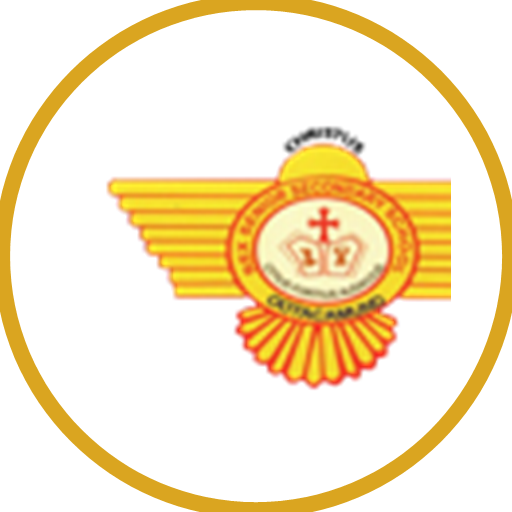
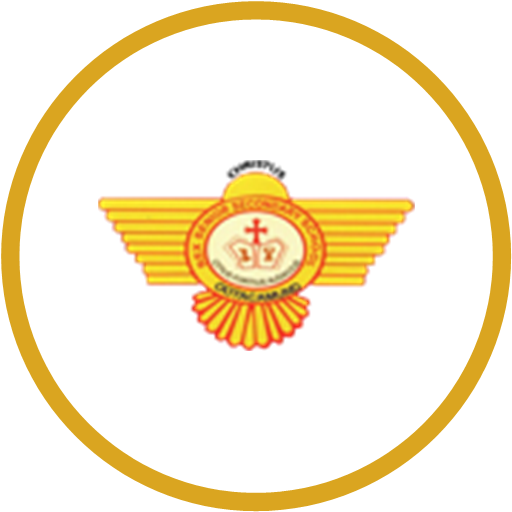
fix: resolve emblem right-side crop, fix CalendarScreen constructor, and enforce strict role routing

Changed region(s): [[0.1875, 0.2188, 0.9062, 0.7812], [0.0, 0.0, 1.0, 1.0]]

diff --git a/lib/screens/main_navigation_screen.dart b/lib/screens/main_navigation_screen.dart
@@ -52,14 +52,19 @@ class _MainNavigationScreenState extends State<MainNavigationScreen> {
   String? _lastRole;
 
   String _resolveRole(ERPProvider erp) {
+    // 1. ApiService is the primary authority based on user authentication
     final apiRole = ApiService.activeRole.toUpperCase();
-    if (apiRole == 'SUPER_ADMIN' || erp.currentRole.toLowerCase() == 'admin') {
-      return 'SUPER_ADMIN';
-    } else if (apiRole == 'TEACHER' || erp.currentRole.toLowerCase() == 'teacher') {
-      return 'TEACHER';
-    } else {
-      return 'PARENT';
-    }
+    if (apiRole == 'SUPER_ADMIN') return 'SUPER_ADMIN';
+    if (apiRole == 'TEACHER') return 'TEACHER';
+    if (apiRole == 'PARENT') return 'PARENT';
+
+    // 2. Fallback to ERPProvider state
+    final erpRole = erp.currentRole.toLowerCase();
+    if (erpRole == 'teacher') return 'TEACHER';
+    if (erpRole == 'parent') return 'PARENT';
+    if (erpRole == 'admin' || erpRole == 'super_admin') return 'SUPER_ADMIN';
+
+    return 'PARENT';
   }
 
   List<Widget> _getPagesForRole(String role) {
@@ -787,7 +792,7 @@ class _MainNavigationScreenState extends State<MainNavigationScreen> {
                       title: "School Calendar & Events",
                       onTap: () {
                         Navigator.pop(context);
-                        Navigator.push(context, MaterialPageRoute(builder: (_) => const CalendarScreen()));
+                        Navigator.push(context, MaterialPageRoute(builder: (_) => const SchoolCalendarScreen()));
                       },
                     ),
                   ],

diff --git a/lib/services/erp_provider.dart b/lib/services/erp_provider.dart
@@ -6,7 +6,7 @@ import '../models/leave_request.dart';
 import 'audio_service.dart';
 
 class ERPProvider extends ChangeNotifier {
-  String _currentRole = 'admin'; // 'admin', 'teacher', 'parent'
+  String _currentRole = 'parent'; // 'parent', 'teacher', 'admin'
   String _tripMode = 'morning'; // 'morning', 'evening'
   String _selectedRouteId = 'route-02';
   double _busProgress = 0.68; // 68% along route (at 480m mark)
